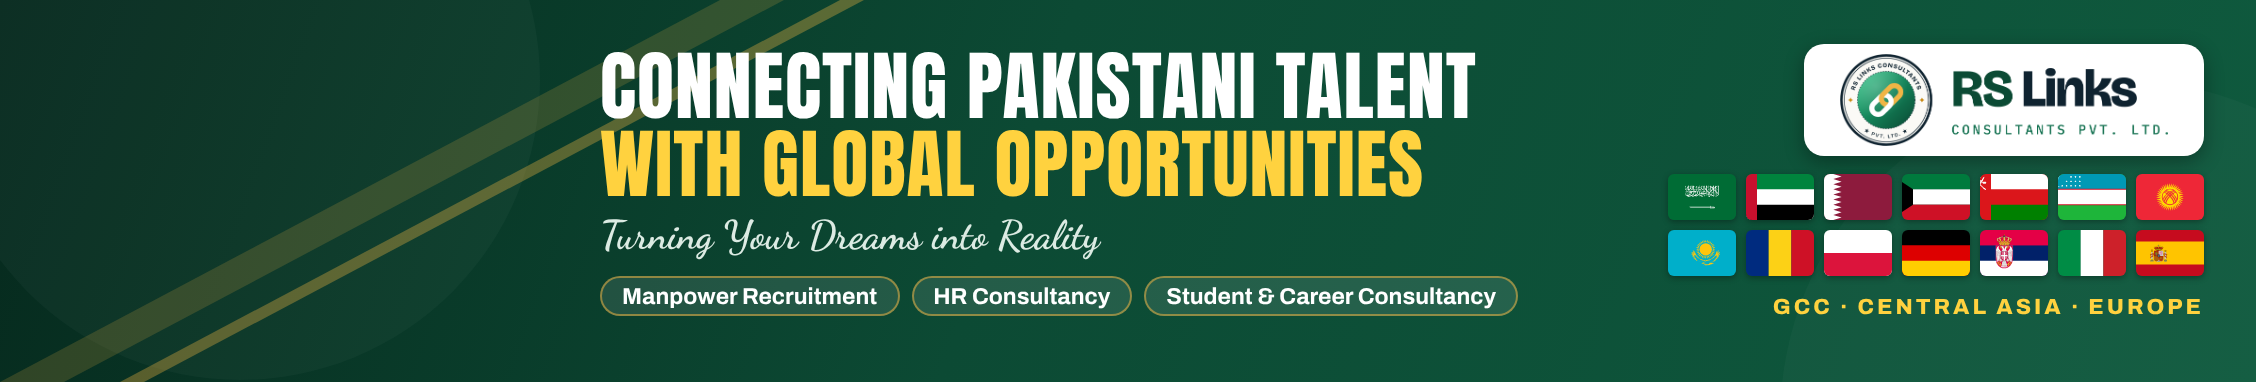
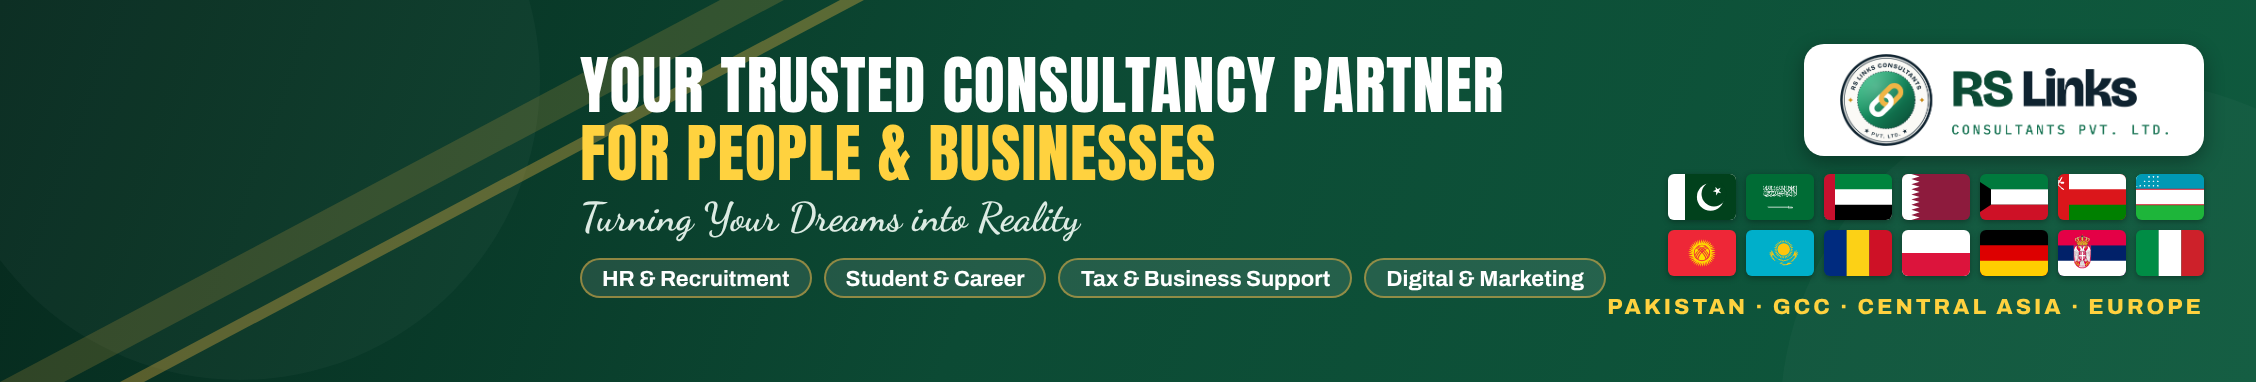
LinkedIn: general consultancy tagline, About and cover
Claude-Session: https://claude.ai/code/session_01YJ5ofgU8QCiWTsYR9pvXG4

Changed region(s): [[0.2482, 0.1152, 0.9929, 0.8351], [0.7137, 0.4319, 0.9929, 0.5759], [0.7137, 0.7775, 0.7757, 0.8351]]

diff --git a/src/linkedin_banner.py b/src/linkedin_banner.py
@@ -9,15 +9,15 @@ from office_banners import FLAGS, TAGLINE_EN, WEBSITE
 
 GREEN, GOLD, NAVY = C["green"], C["gold"], "#0A1B25"
 W, H = 1128, 191
-FLAG_CODES = ["sa", "ae", "qa", "kw", "om", "uz", "kg", "kz", "ro", "pl", "de", "rs", "it", "es"]
+FLAG_CODES = ["pk", "sa", "ae", "qa", "kw", "om", "uz", "kg", "kz", "ro", "pl", "de", "rs", "it"]
 
 
 def build():
     flags = "".join(f"<img src='{(FLAGS / (c + '.svg')).as_uri()}' style='width:34px;height:23px;object-fit:cover;border-radius:3px;"
                     f"box-shadow:0 1px 3px #0005'>" for c in FLAG_CODES)
-    svcs = ["Manpower Recruitment", "HR Consultancy", "Student &amp; Career Consultancy"]
+    svcs = ["HR &amp; Recruitment", "Student &amp; Career", "Tax &amp; Business Support", "Digital &amp; Marketing"]
     chips = "".join(f"<span style='background:#ffffff1A;border:1px solid {GOLD}88;border-radius:999px;padding:3px 10px;"
-                    f"font-size:11.5px;font-weight:700;color:#fff;white-space:nowrap'>{s}</span>" for s in svcs)
+                    f"font-size:11px;font-weight:700;color:#fff;white-space:nowrap'>{s}</span>" for s in svcs)
     return f"""<div style='position:relative;width:{W}px;height:{H}px;overflow:hidden;font-family:Archivo;
  background:linear-gradient(110deg,#06291D 0%,{GREEN} 45%,#0F5A3E 100%)'>
  <svg style='position:absolute;left:0;top:0' width='{W}' height='{H}'>
@@ -25,9 +25,9 @@ def build():
   <path d='M0 {H} L360 0 L392 0 L32 {H}Z' fill='{GOLD}' opacity='.18'/>
   <path d='M60 {H} L420 0 L432 0 L72 {H}Z' fill='{GOLD}' opacity='.35'/>
  </svg>
- <div style='position:absolute;left:300px;top:24px;width:470px'>
-  <div style='font-family:Anton;font-size:38px;line-height:1.02;color:#fff;letter-spacing:.5px'>
-   CONNECTING PAKISTANI TALENT<br><span style='color:{C['gold2']}'>WITH GLOBAL OPPORTUNITIES</span></div>
+ <div style='position:absolute;left:290px;top:26px;width:520px'>
+  <div style='font-family:Anton;font-size:32px;line-height:1.05;color:#fff;letter-spacing:.5px;white-space:nowrap'>
+   YOUR TRUSTED CONSULTANCY PARTNER<br><span style='color:{C['gold2']}'>FOR PEOPLE &amp; BUSINESSES</span></div>
   <div style='font-family:Dancing;font-weight:700;font-size:20px;color:#DCEBE3;margin-top:4px'>{TAGLINE_EN}</div>
   <div style='display:flex;gap:6px;margin-top:8px'>{chips}</div>
  </div>
@@ -35,7 +35,7 @@ def build():
   <div style='background:#fff;border-radius:10px;padding:5px 10px;box-shadow:0 3px 10px #0005'>
    {logo_img('logo-horizontal-light', 'width:180px;height:46px')}</div>
   <div style='display:grid;grid-template-columns:repeat(7,34px);gap:5px'>{flags}</div>
-  <div style='font-size:11px;font-weight:800;color:{C['gold2']};letter-spacing:1.5px;white-space:nowrap'>GCC · CENTRAL ASIA · EUROPE</div>
+  <div style='font-size:11px;font-weight:800;color:{C['gold2']};letter-spacing:1.5px;white-space:nowrap'>PAKISTAN · GCC · CENTRAL ASIA · EUROPE</div>
  </div>
 </div>"""
 

diff --git a/output/linkedin/RS-Links-LinkedIn-Page-Text.md b/output/linkedin/RS-Links-LinkedIn-Page-Text.md
@@ -2,32 +2,34 @@
 
 ## Tagline (LinkedIn limit: 120 characters)
 
-Connecting Pakistani talent with global opportunities across the GCC, Central Asia & Europe.
+Your trusted consultancy partner — helping people and businesses grow, in Pakistan and beyond.
 
 ## About (LinkedIn limit: 2,000 characters)
 
-RS Links Consultants Pvt. Ltd. is a Rawalpindi-based consultancy that connects skilled and motivated Pakistani professionals with employers across the GCC, Central Asia and Europe.
+RS Links Consultants Pvt. Ltd. is a multi-service consultancy firm based in Rawalpindi, Pakistan. We help individuals, students and businesses make better decisions and reach their goals — at home and abroad.
 
-We work with overseas employers and partner agencies to fill manpower demands in sectors such as manufacturing, logistics and warehousing, construction, retail, hospitality, driving and delivery, and healthcare. Our role is to make the journey from application to departure clear, organised and well-supported for every candidate.
+Our team brings together expertise in human resources, recruitment, education, taxation, careers and business growth, so our clients can get the guidance they need under one roof.
 
-What we do:
-• Manpower Recruitment – sourcing, screening and shortlisting candidates for overseas employers
-• HR Consultancy – recruitment support and staffing solutions for businesses
-• Student Consultancy – guidance for students planning to study abroad
-• Career Advisory – helping candidates choose the right path and prepare their profiles
-• Visa & Documentation Assistance – support with paperwork, attestation and processing
-• Trade Testing, Interviews & Pre-Departure Orientation
-• Tax Consultancy, Marketing and Website Development Support
+Our services:
+• HR Consultancy – HR policies, hiring support and staffing solutions for organisations
+• Recruitment & Manpower Solutions – local and overseas recruitment, including placements across the GCC, Central Asia and Europe
+• Student Consultancy – study-abroad guidance, admissions and documentation support
+• Career Advisory – career planning, CV development and interview preparation
+• Tax Consultancy – tax filing, registration and compliance support for individuals and businesses
+• Visa & Documentation Assistance – paperwork, attestation and processing support
+• Marketing Support – brand building and digital marketing for growing businesses
+• Website Development Support – professional websites and online presence
+• Corporate Staffing & Business Support – flexible solutions for companies of every size
 
-Where we place talent:
-GCC – Saudi Arabia, UAE, Qatar, Kuwait, Oman, Bahrain
-Central Asia – Uzbekistan, Kyrgyzstan, Kazakhstan, and Malaysia
-Europe – Romania, Poland, Germany, Serbia, Kosovo, Moldova, Italy, Bulgaria, Spain, Lithuania, Czech Republic, Bosnia & Herzegovina and more
+Why RS Links:
+✔ One consultancy for people and businesses
+✔ Transparent, honest advice and accurate information
+✔ Personal attention from first consultation to final result
+✔ A growing international network across Pakistan, the GCC, Central Asia and Europe
 
-Our promise: transparent communication, accurate job information and genuine care for every candidate and client. Turning your dreams into reality.
+Turning your dreams into reality.
 
-Employers and partner agencies: we welcome collaboration on new demands.
-Candidates: follow our page for the latest vacancies.
+Whether you are a candidate, a student, a business owner or a partner agency, we would be glad to work with you.
 
 📍 Office No. 20, 3rd Floor, Satellite Shopping Centre, Sixth Road, Rawalpindi
 📞 WhatsApp: +92 371 9051589 | +92 317 0363690
@@ -36,7 +38,7 @@ Candidates: follow our page for the latest vacancies.
 
 ## Other page fields
 
-- Industry: Staffing and Recruiting
+- Industry: Business Consulting and Services
 - Company type: Privately Held
 - Headquarters: Rawalpindi, Punjab, Pakistan
-- Specialties: Overseas Recruitment, Manpower Supply, HR Consultancy, Student Consultancy, Career Advisory, Visa Processing, GCC Jobs, Europe Jobs, Central Asia Jobs
+- Specialties: HR Consultancy, Recruitment, Overseas Employment, Student Consultancy, Study Abroad, Career Advisory, Tax Consultancy, Visa & Documentation, Digital Marketing, Website Development, Business Consultancy
